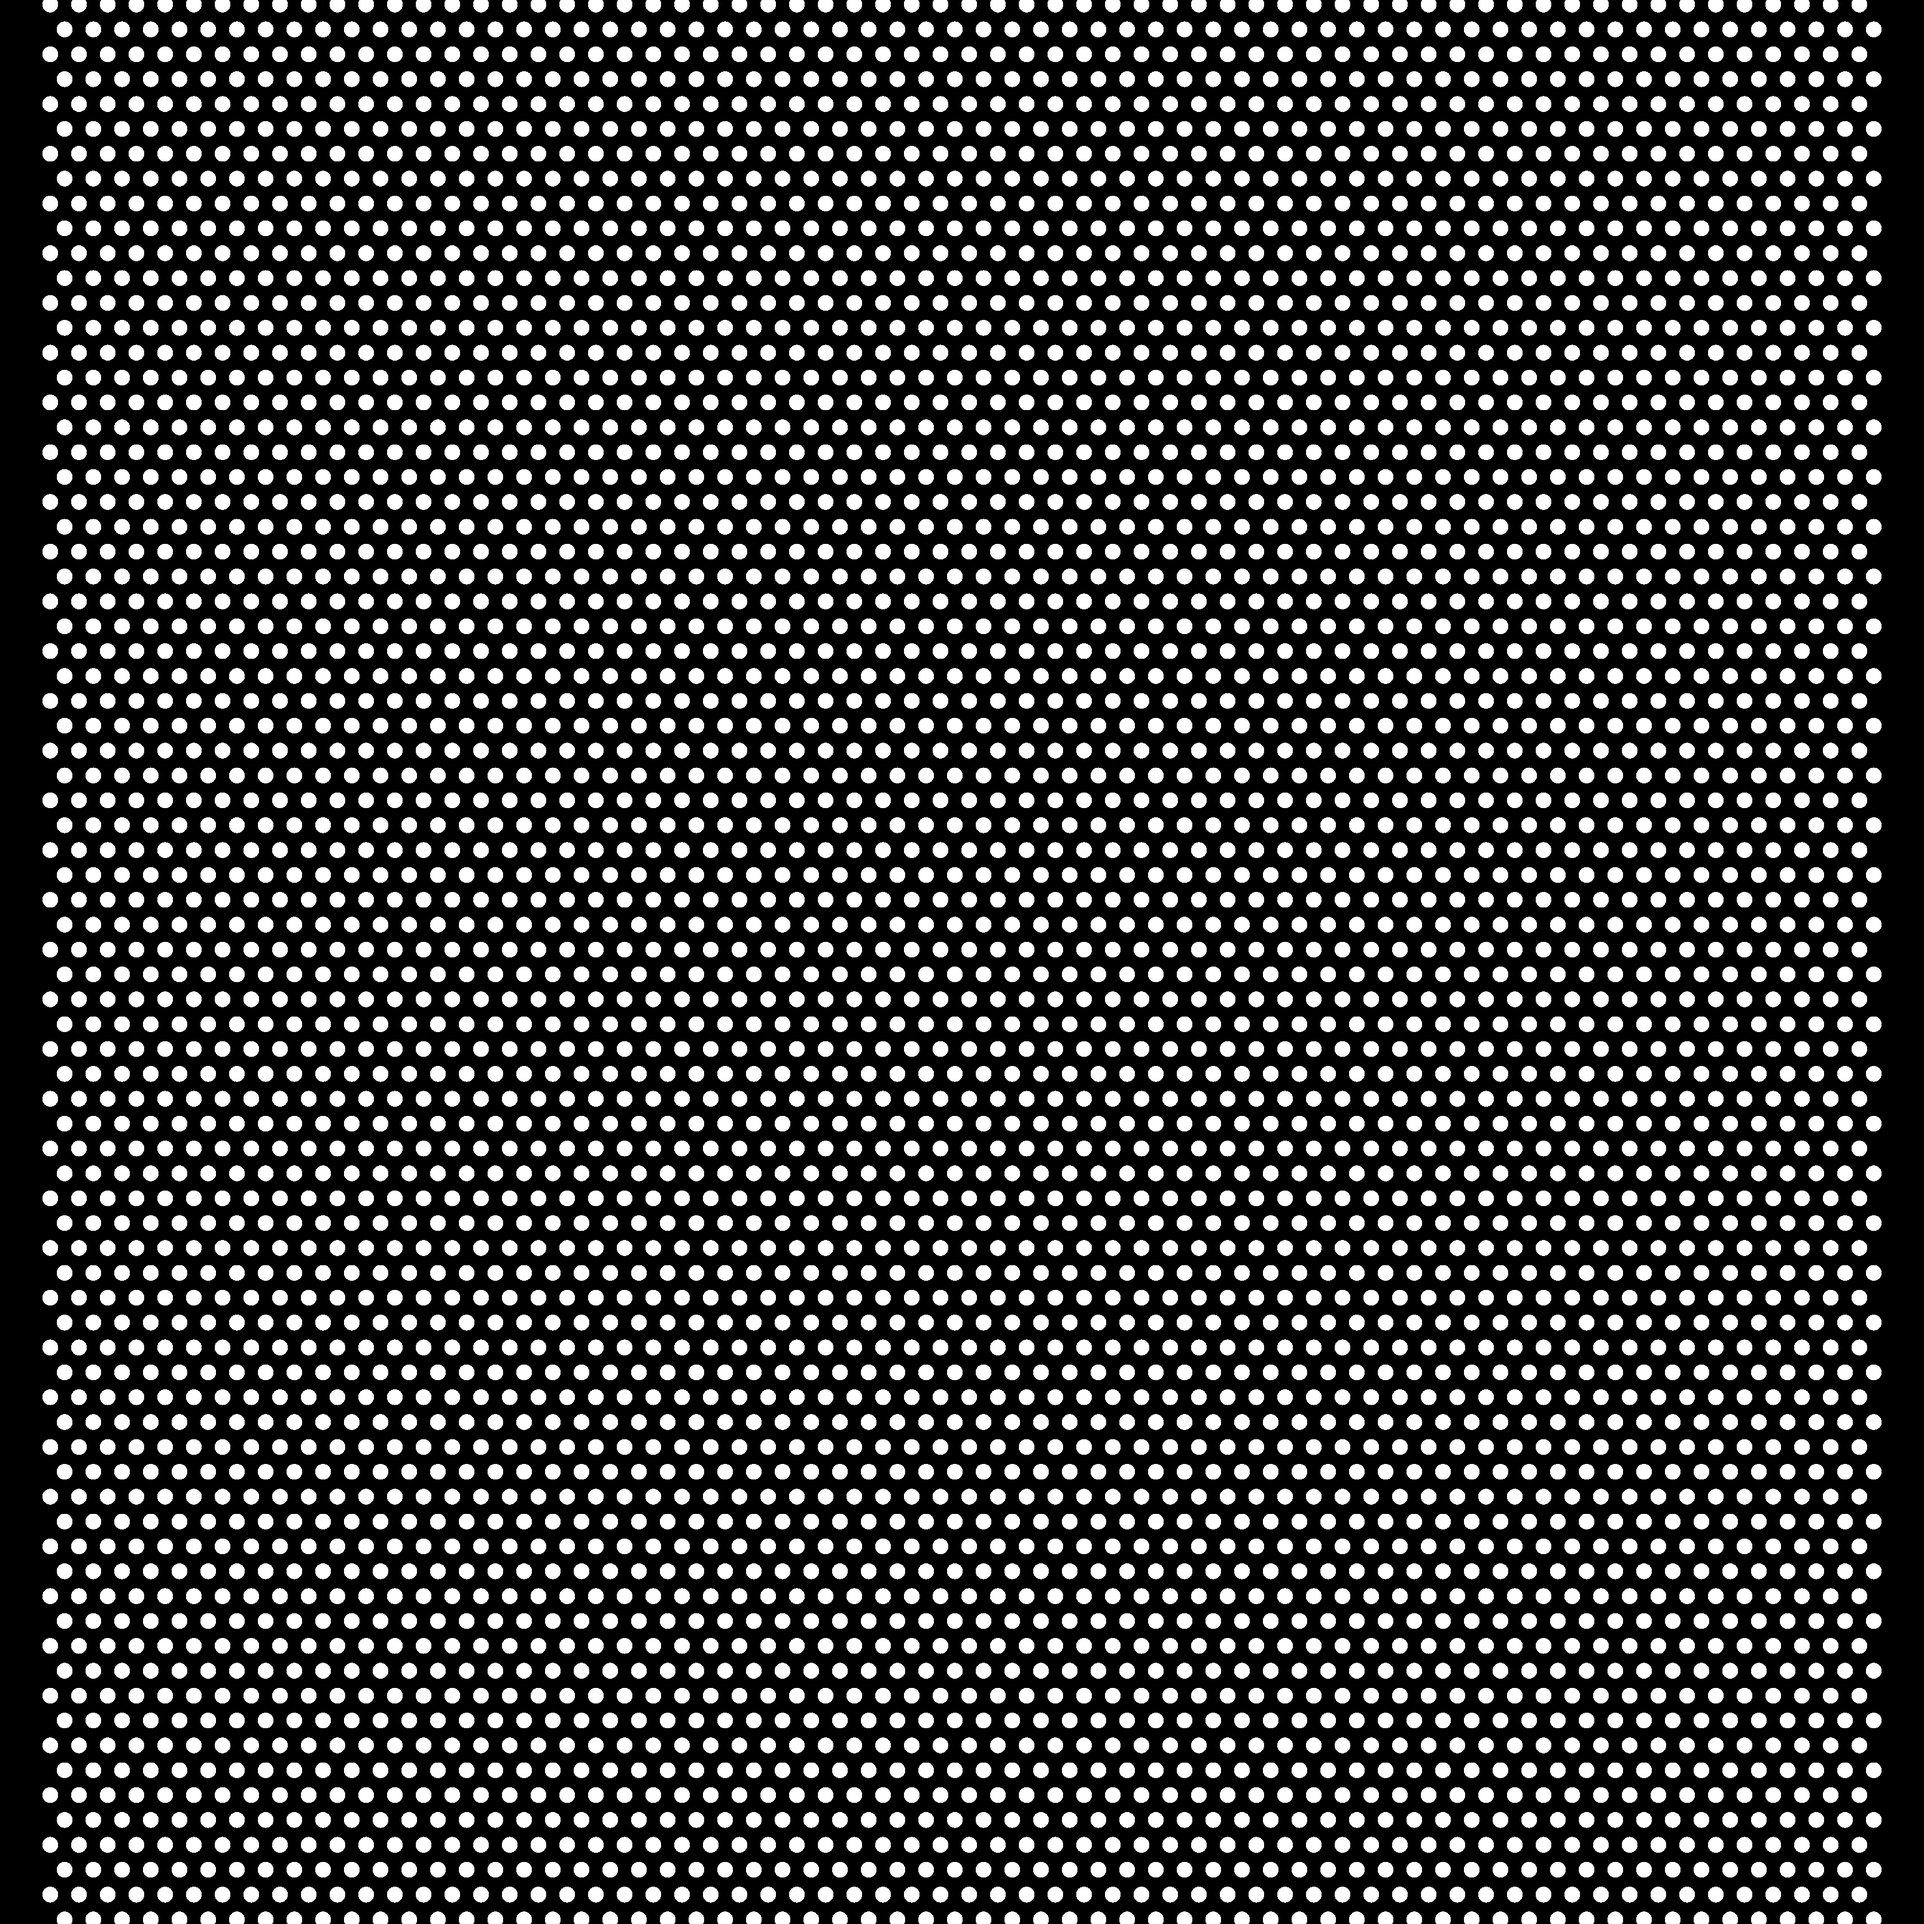
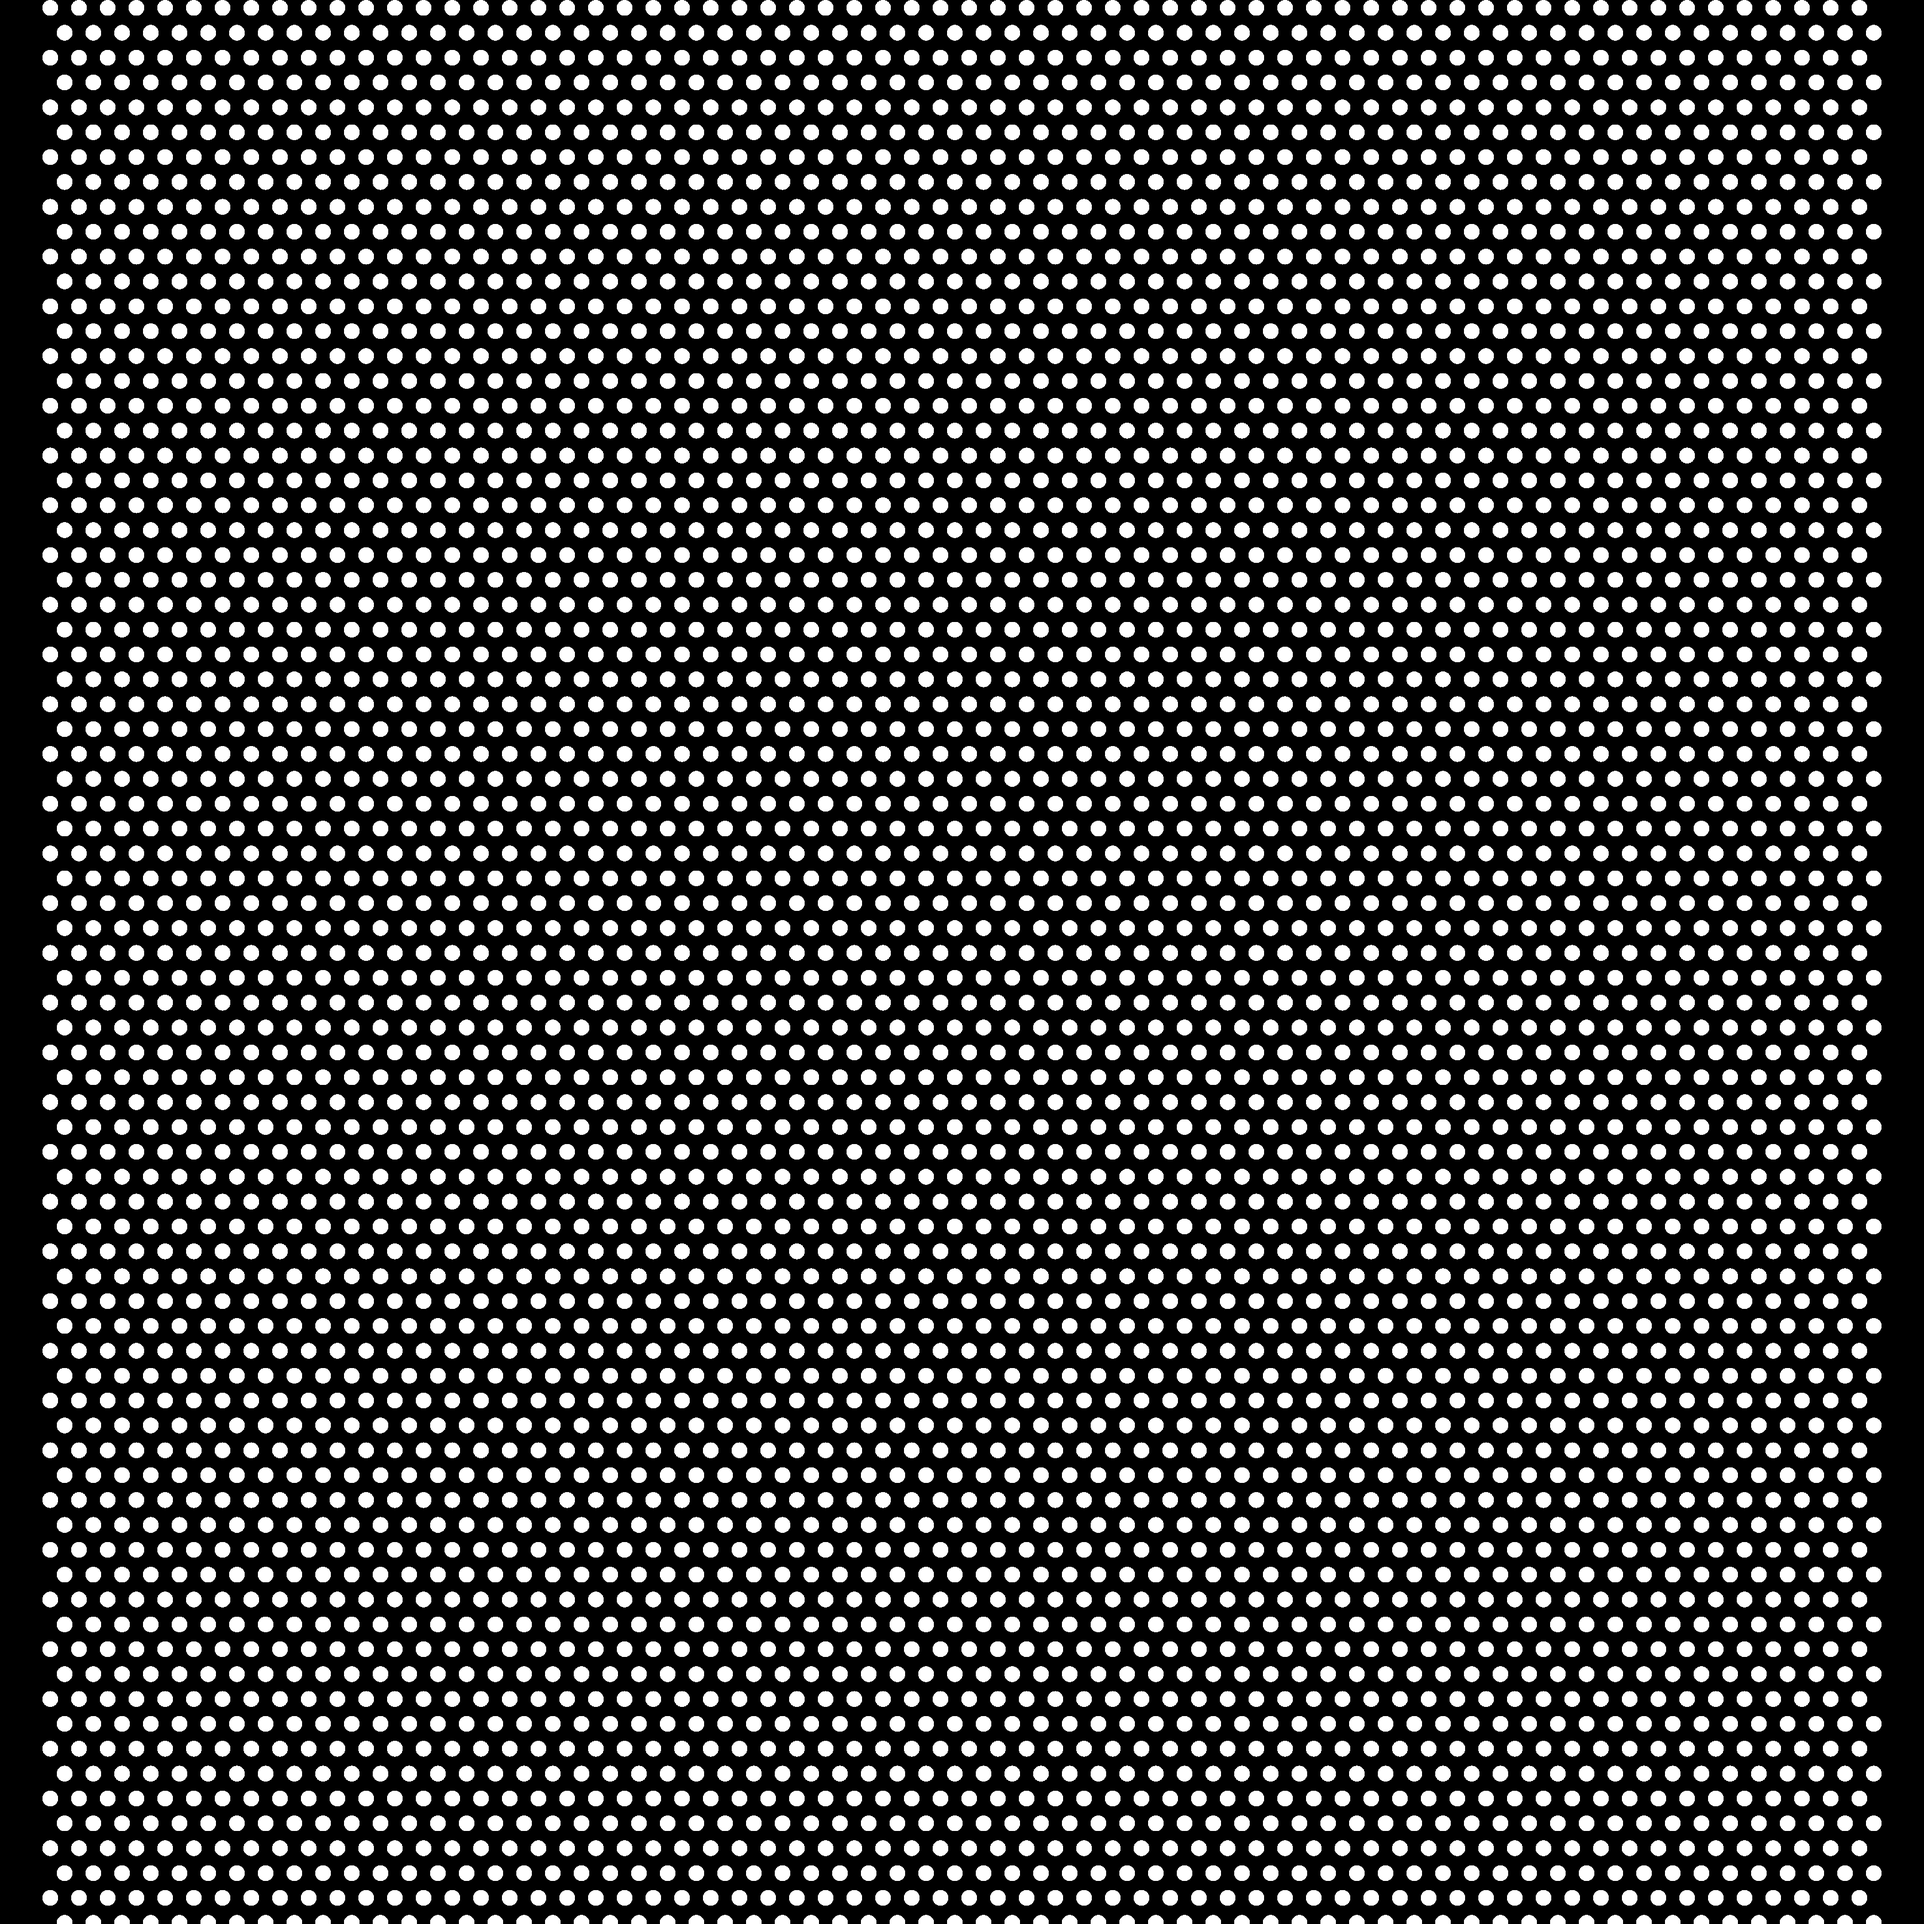
modified:   HD2Visium.py 	modified:   label.png

Changed region(s): [[0.031, 0.0, 0.9624, 1.0]]

diff --git a/HD2Visium.py b/HD2Visium.py
@@ -464,7 +464,7 @@ class VisiumHDData:
 
         return spotsOnImage
 
-    def generate_Visium(self, profile:VisiumProfile):
+    def generate_Visium(self, profile:VisiumProfile, uncover_thresholds=0):
 
         _, frame_center = self.profile.set_spots(profile)
         self.__spot2image(profile, frame_center)
@@ -476,6 +476,13 @@ class VisiumHDData:
         
         mask_in_tissue = self.locDF["in_tissue"] == 1
         for id in range(len(profile)):
+            bin_out = profile.tissue_positions.loc[id,"num_bin_out_spot"]
+            bin_in = profile.tissue_positions.loc[id,"num_bin_in_spot"]
+            if bin_out and bin_out/(bin_in+bin_out) > uncover_thresholds:
+                spot_in_tissue[id] = 0
+                print(id)
+                continue
+
             mask_in_spot = self.profile.tissue_positions["spot_label"] == id + 1
             mask = mask_in_spot[mask_in_tissue].values
             if mask.any():
@@ -488,6 +495,7 @@ class VisiumHDData:
                 spot_in_tissue[id] = 1
             else:
                 spot_in_tissue[id] = 0
+            
             if id%100==0: print(id)
         
         tissue_positions = profile.tissue_positions[["barcode","array_row","array_col"]].copy()
@@ -536,6 +544,7 @@ def main():
     rawdata = VisiumHDData(path = Path(args.rawdata))
     result =  rawdata.generate_Visium(VisiumProfile())
     result.save(save_prefix)
+
     # image = tifffile.imread("/data/datasets/Visium_HD_Human_Tonsil_Fresh_Frozen/Visium_HD_Human_Tonsil_Fresh_Frozen_tissue_image.tif")
     # image = tifffile.imread("/data/datasets/Visium_HD_Mouse_Brain_Fresh_Frozen/Visium_HD_Mouse_Brain_Fresh_Frozen_tissue_image.tif")
 
@@ -554,7 +563,8 @@ def main():
     # a = VisiumHDProfile()
     # profile = VisiumProfile()
     # print(profile.frame,a.frame)
-    # label, _ = a.set_spots(profile=profile, mode="center")
+    # label, _ = a.set_spots(profile=profile )
+
     # print(a.tissue_positions)
     # print(profile.tissue_positions)
     # # label = a.set_spots(profile=profile, mode="corner", corner=3)
